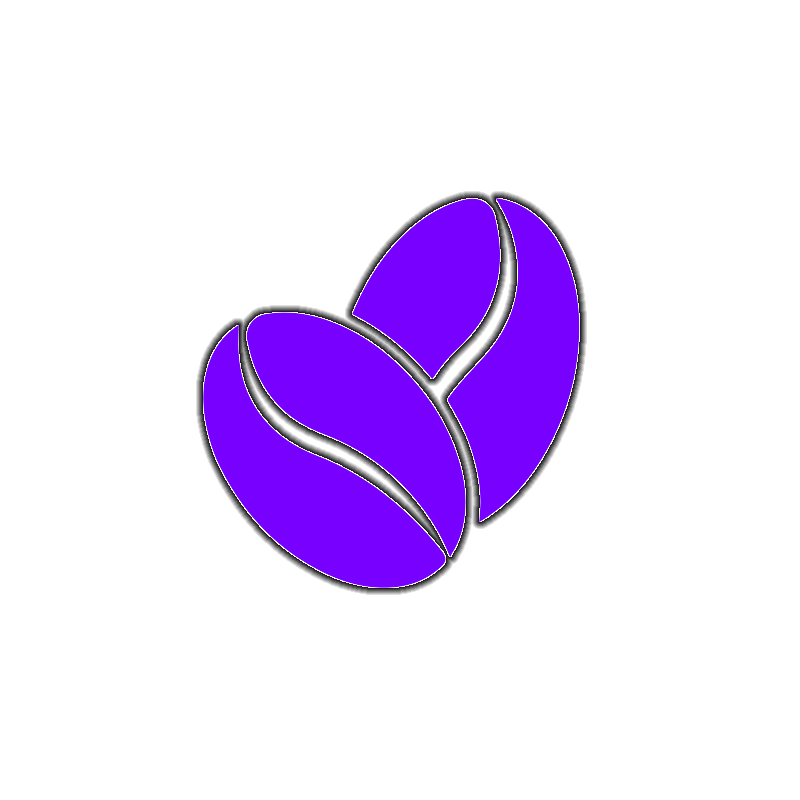
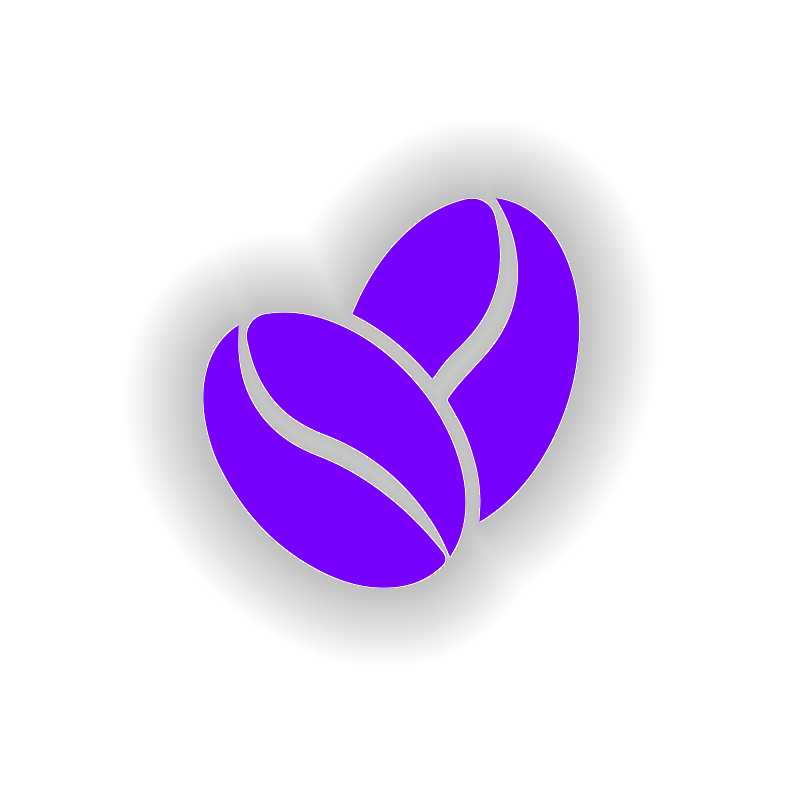
Refactor image processing functions to utilize CudaImage copy method for destination image handling

Changed region(s): [[0.1875, 0.1875, 0.8125, 0.8125]]

diff --git a/photoff/operations/filters.py b/photoff/operations/filters.py
@@ -2,16 +2,14 @@ from ..core import _lib
 from ..core.types import CudaImage, RGBA
 
 def apply_corner_radius(image: CudaImage, size: int) -> None:
+
     _lib.apply_corner_radius(image.buffer, image.width, image.height, size)
 
 def apply_stroke(src_image: CudaImage,
+                 dst_image: CudaImage, 
                  stroke_width: int,
                  stroke_color: RGBA,
-                 dst_image: CudaImage = None,
                  inner: bool = False) -> None:
-    
-    if dst_image is None:
-        dst_image = src_image.copy()
 
     _lib.apply_stroke(src_image.buffer, dst_image.buffer,
                       src_image.width, src_image.height,
@@ -19,15 +17,12 @@ def apply_stroke(src_image: CudaImage,
                       stroke_color.b, stroke_color.a, int(inner))
 
 def apply_shadow(src_image: CudaImage,
+                 dst_image: CudaImage,
                  radius: float,
                  intensity: float,
                  shadow_color: RGBA,
-                 dst_image: CudaImage = None,
                  inner: bool = False) -> None:
     
-    if dst_image is None:
-        dst_image = src_image.copy()
-
     _lib.apply_shadow(src_image.buffer, dst_image.buffer,
                     src_image.width, src_image.height,
                     radius, intensity, shadow_color.r,

diff --git a/visual_test/stroke.py b/visual_test/stroke.py
@@ -1,5 +1,4 @@
 from photoff.operations.filters import apply_stroke
-from photoff.operations.blend import blend
 from photoff.io import save_image, load_image
 from photoff import RGBA, CudaImage
 
@@ -16,7 +15,7 @@ def corner_border_ui(image: Annotated[str, fileUi] = "./visual_test/logo.png",
     src_image = load_image(image)
     image_size = (src_image.width, src_image.height)
     
-    dst_image = CudaImage(*image_size)
+    dst_image = src_image.copy()
     
     apply_stroke(src_image, dst_image, stroke_width, RGBA(*stroke_color), inner)    
     save_image(dst_image, path)

diff --git a/photoff/core/types.py b/photoff/core/types.py
@@ -33,11 +33,7 @@ class CudaImage:
         self.buffer = None
     
     def copy(self):
-        copy_buffer(self.buffer, self.width, self.height)
+        copy_b = copy_buffer(self.buffer, self.width, self.height)
         copy = CudaImage(self.width, self.height, auto_init=False)
-        copy.buffer = self.buffer
+        copy.buffer = copy_b
         return copy
-
-    def __del__(self):
-        if self.buffer is not None:
-            free_buffer(self.buffer)

diff --git a/test/stroke_fps.py b/test/stroke_fps.py
@@ -33,7 +33,7 @@ def measure_stroke_performance(input_path="./test/logo.png",
     print("\nTesting original version (new buffer each time):")
     start_time = perf_counter()
     for _ in range(iterations):
-        temp_dst = CudaImage(*image_size)
+        temp_dst = src_image.copy()
         apply_stroke(src_image, temp_dst, stroke_width, stroke_color)
         temp_dst.free()
     end_time = perf_counter()

diff --git a/test/shadow.py b/test/shadow.py
@@ -35,7 +35,7 @@ def measure_shadow_performance(input_path="./test/logo.png",
     print("\nTesting with new buffer each time:")
     start_time = perf_counter()
     for _ in range(iterations):
-        temp_dst = CudaImage(*image_size)
+        temp_dst = src_image.copy()
         apply_shadow(src_image, temp_dst, radius, intensity, shadow_color, inner)
         temp_dst.free()
     end_time = perf_counter()

diff --git a/visual_test/shadow.py b/visual_test/shadow.py
@@ -15,7 +15,7 @@ def shadow_ui(image: Annotated[str, fileUi] = "./visual_test/logo.png",
     src_image = load_image(image)
     image_size = (src_image.width, src_image.height)
     
-    dst_image = CudaImage(*image_size)
+    dst_image = src_image.copy()
     
     apply_shadow(src_image, dst_image, radius, intensity, RGBA(*shadow_color), inner)
     save_image(dst_image, path)
